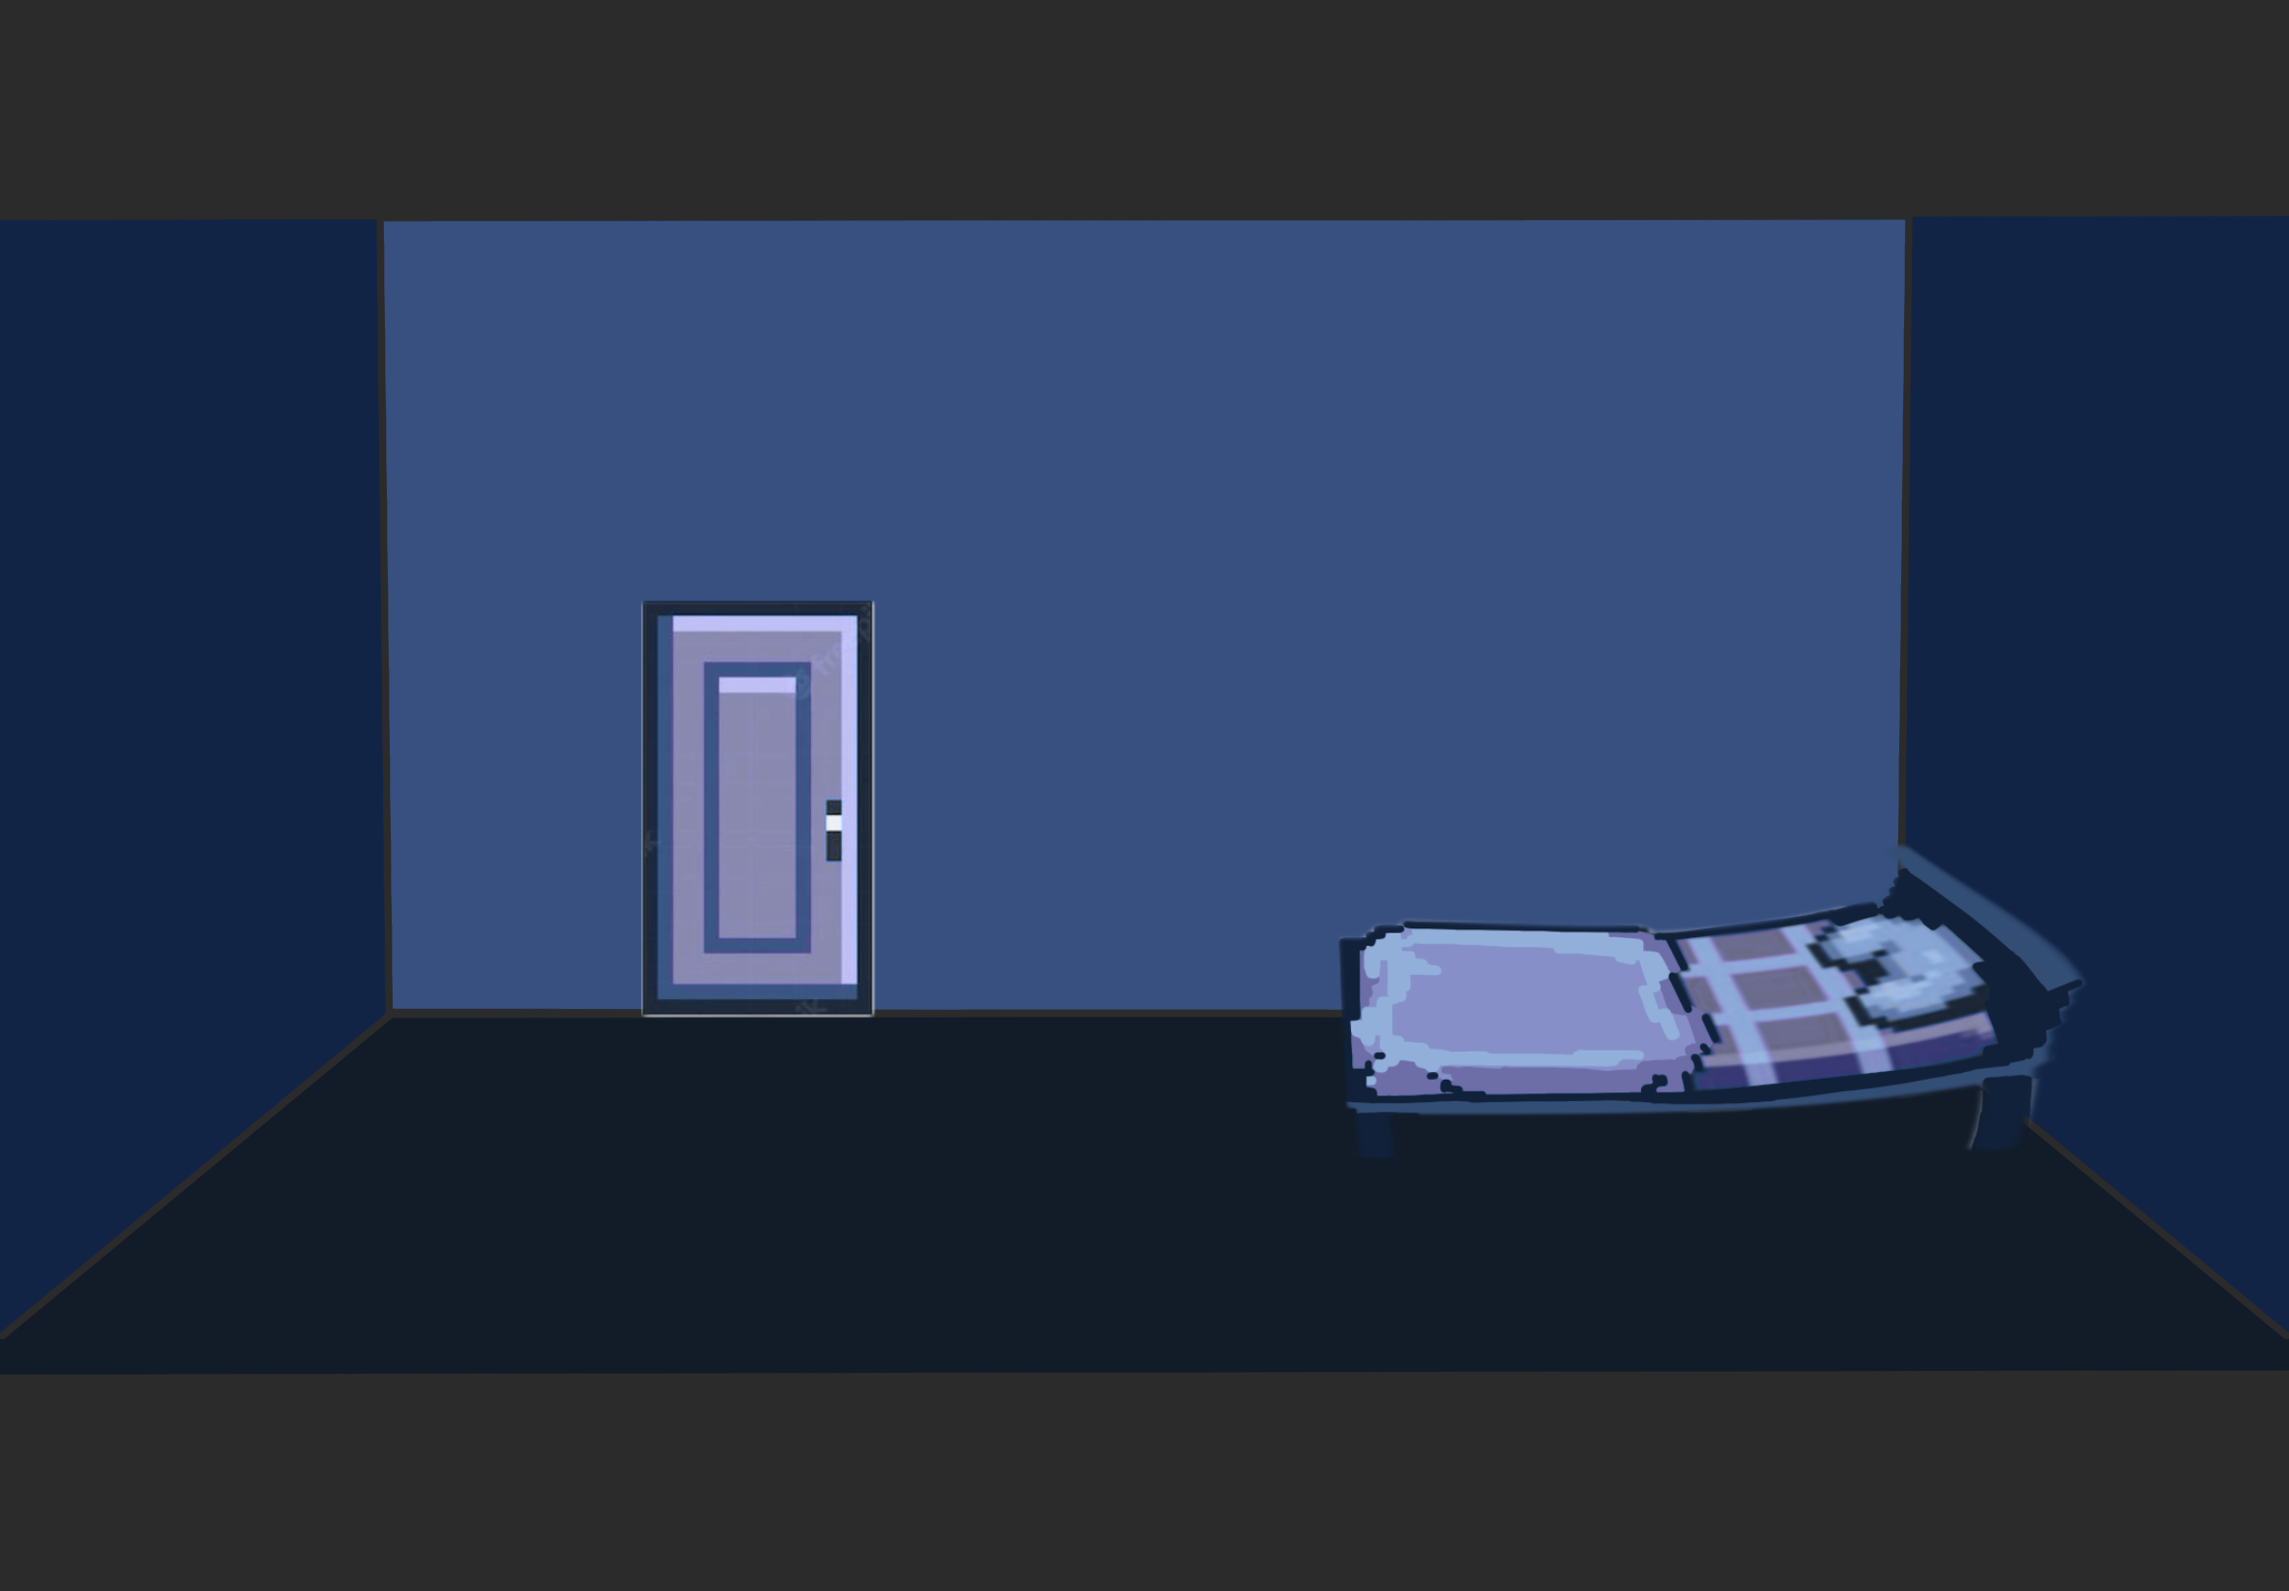
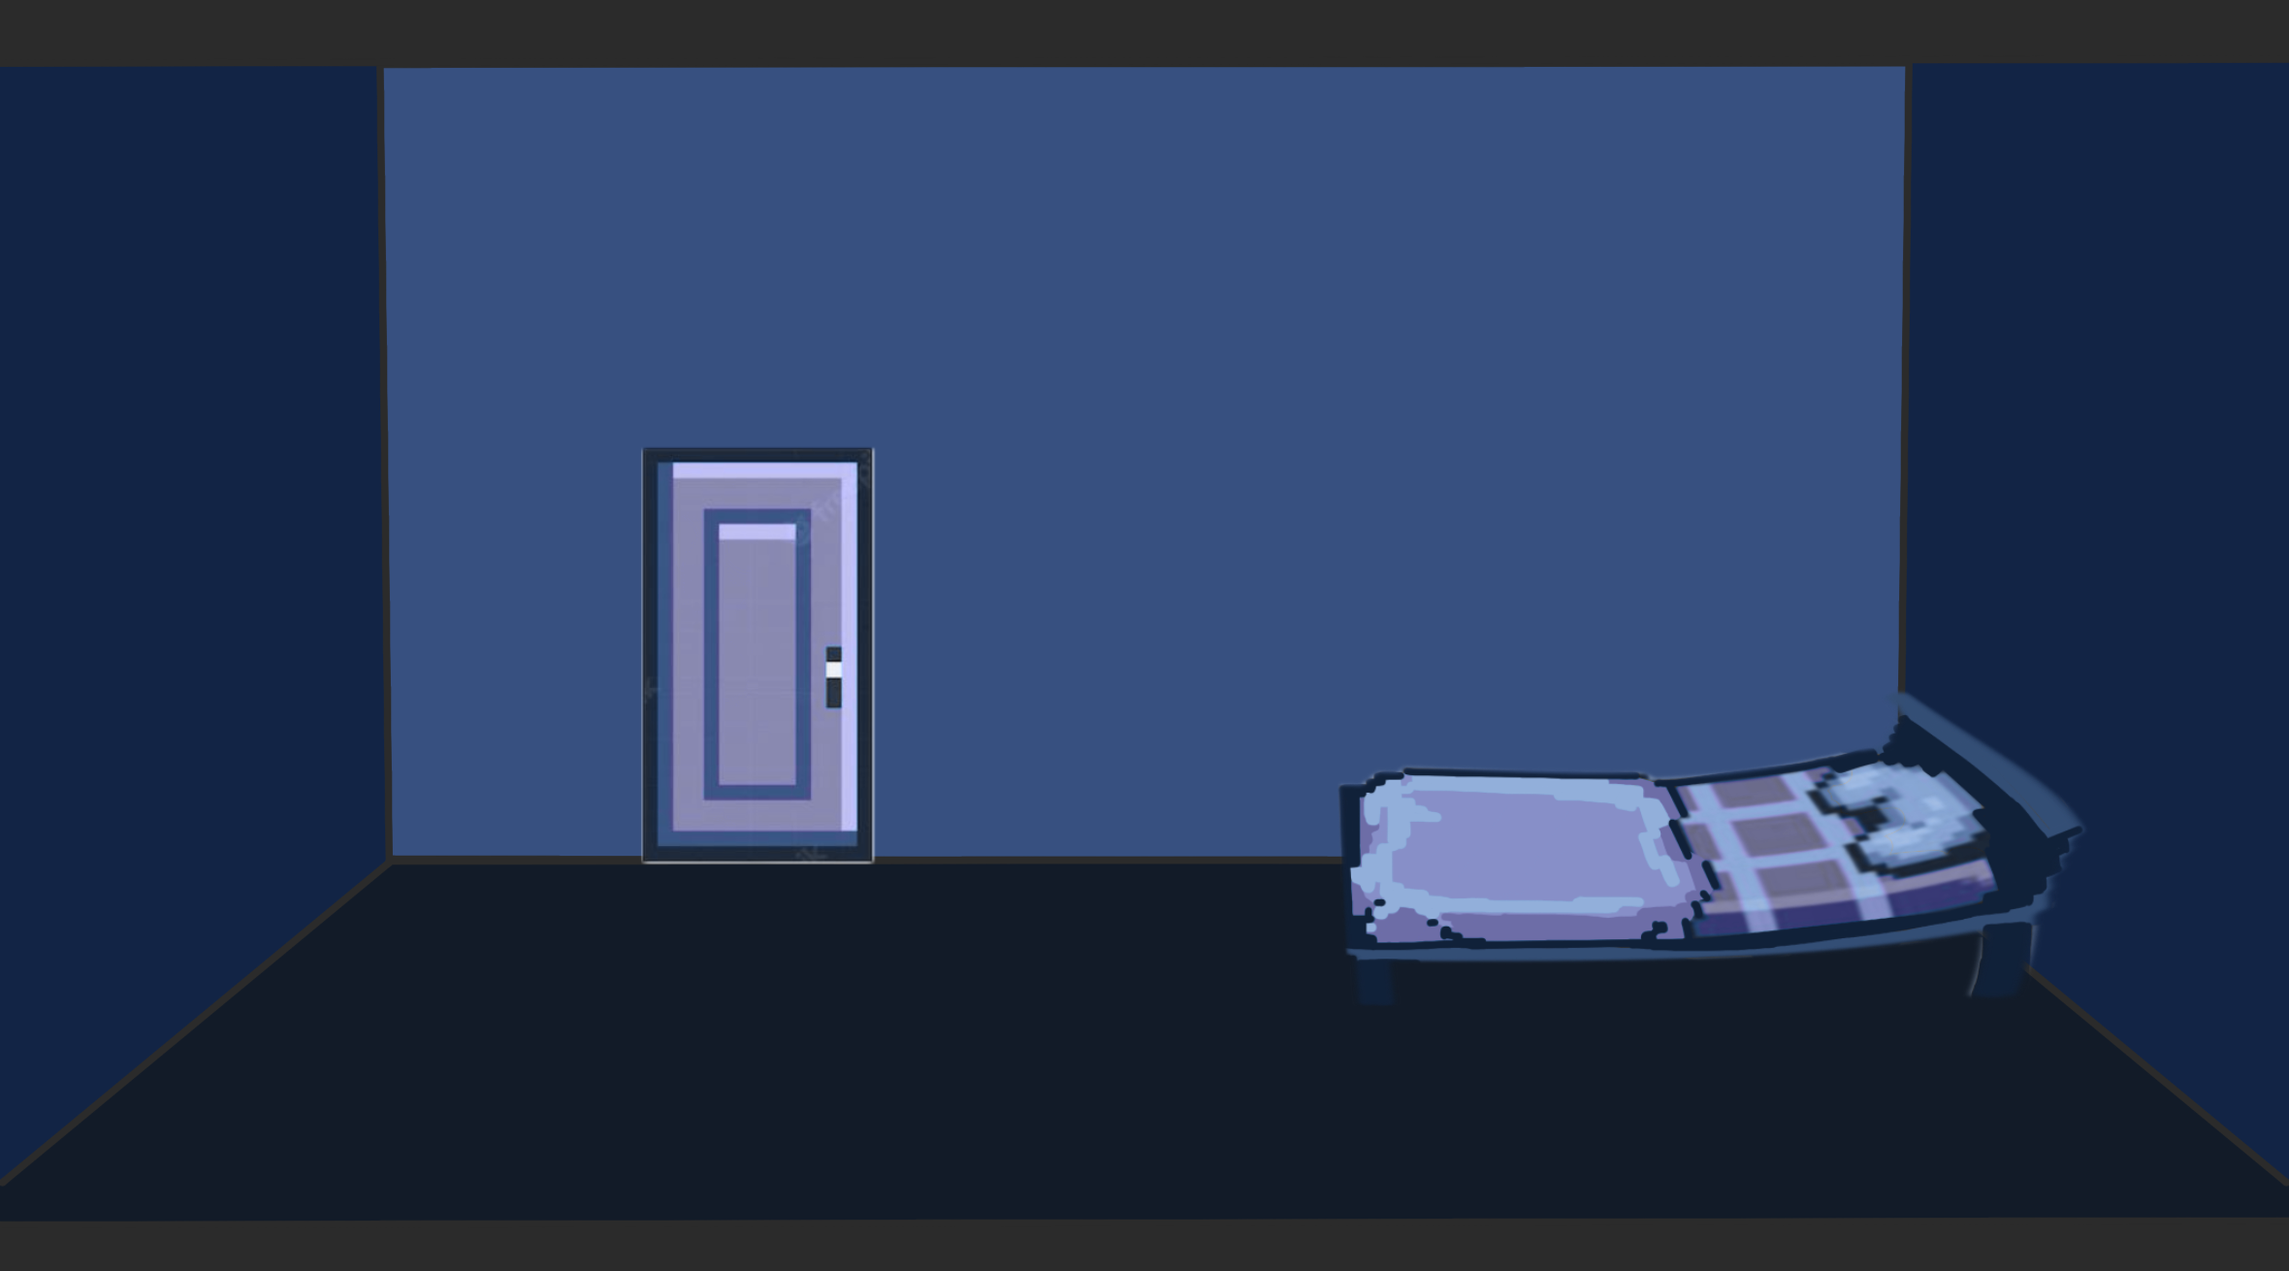
Switch position and random added

diff --git a/lib/components/switch.dart b/lib/components/switch.dart
@@ -1,18 +1,42 @@
+import 'dart:math';
+
 import 'package:flame/components.dart';
 import 'package:switch_off/game.dart';
 // import 'package:flutter/material.dart';
-
-
 class SwitchOn extends SpriteComponent with HasGameRef<SwitchGame>{
     bool isNight = false; 
+    late List<Vector2> switchPositions;
+    late Random random;
   @override
   Future<void> onLoad() async {
     await super.onLoad();
     // Load the image for the Angry Bird sprite
     sprite = await Sprite.load('switch_day.png'); // Adjust the path to your image
-       size = Vector2(gameRef.size.x,gameRef.size.y); // Adjust size as needed
+       size = Vector2(148,148); // Adjust size as needed
     position = Vector2(game.size.x/2,game.size.y/2); 
     anchor=Anchor.center;
+
+      switchPositions = [
+      Vector2(game.size.x/2 + 600,game.size.y/2 - 100),
+      Vector2(game.size.x/2 + 400,game.size.y/2 - 300),
+      Vector2(game.size.x/2 +300,game.size.y/2 -100),
+      Vector2(game.size.x/2+ 180,game.size.y/2 -450),
+      Vector2(game.size.x/2 -150,game.size.y/2 -470),
+      Vector2(game.size.x/2 -500,game.size.y/2 -497),
+      Vector2(game.size.x/2 -400,game.size.y/2 -300),
+      Vector2(game.size.x/2 -650,game.size.y/2 +50 ),
+      Vector2(game.size.x/2 -680,game.size.y/2 -180 ),
+      // Vector2(300, 300),
+      // Add more positions as needed
+    ];
+
+    random = Random();
+  }
+
+
+  void changeSwitchPosition() {
+    int index = random.nextInt(switchPositions.length);
+    position = switchPositions[index];
   }
 
   void switchToNight() async {

diff --git a/lib/game.dart b/lib/game.dart
@@ -42,12 +42,8 @@ SwitchGame()
 
   double get width => size.x;
   double get height => size.y;
-
-
   late Background background;
   late Screen screen;
-
-
   late Lamp lamp;
   late Lamp2 lamp2;
   late WindowL windowl;
@@ -57,8 +53,8 @@ SwitchGame()
   bool isDay = true;
   double timeSinceLastToggle = 0.0;
   double toggleDuration = 5.0;
-
-
+  double timeSinceLastSwitch=0.0;
+  double switchChange=3.0;
 
 
   late Ball ball;
@@ -71,13 +67,11 @@ SwitchGame()
   camera.viewfinder.anchor = Anchor.topLeft;
   background = Background();
   world.add(background);
-    screen = Screen();
-    world.add(screen);
+    // screen = Screen();
+    // world.add(screen);
 
 bulb=Bulb();
 world.add(bulb);
-
-
   lamp=Lamp();
   world.add(lamp);
   lamp2=Lamp2();
@@ -106,11 +100,17 @@ world.add(bulb);
 
  
     timeSinceLastToggle += dt;
+    timeSinceLastSwitch+=dt;
 
-  
     if (timeSinceLastToggle >= toggleDuration) {
       startDayNightCycle();
+     
       timeSinceLastToggle = 0.0; 
+    }
+    if(timeSinceLastSwitch>=switchChange){
+   _switch.changeSwitchPosition();
+   timeSinceLastSwitch=0.0;
+
     }
   }
 

diff --git a/lib/components/background.dart b/lib/components/background.dart
@@ -1,11 +1,9 @@
 import 'dart:async';
-
 import 'package:flame/components.dart';
 import 'package:switch_off/game.dart';
 
 class Background extends SpriteComponent with HasGameRef<SwitchGame> {
   bool isNight = false;
-  
   @override
   Future<void> onLoad() async {
     await super.onLoad();

diff --git a/lib/components/config.dart b/lib/components/config.dart
@@ -1,2 +1,2 @@
 const gameWidth = 2360.000;
-const gameHeight = 1640.000;
+const gameHeight = 1310.000;
